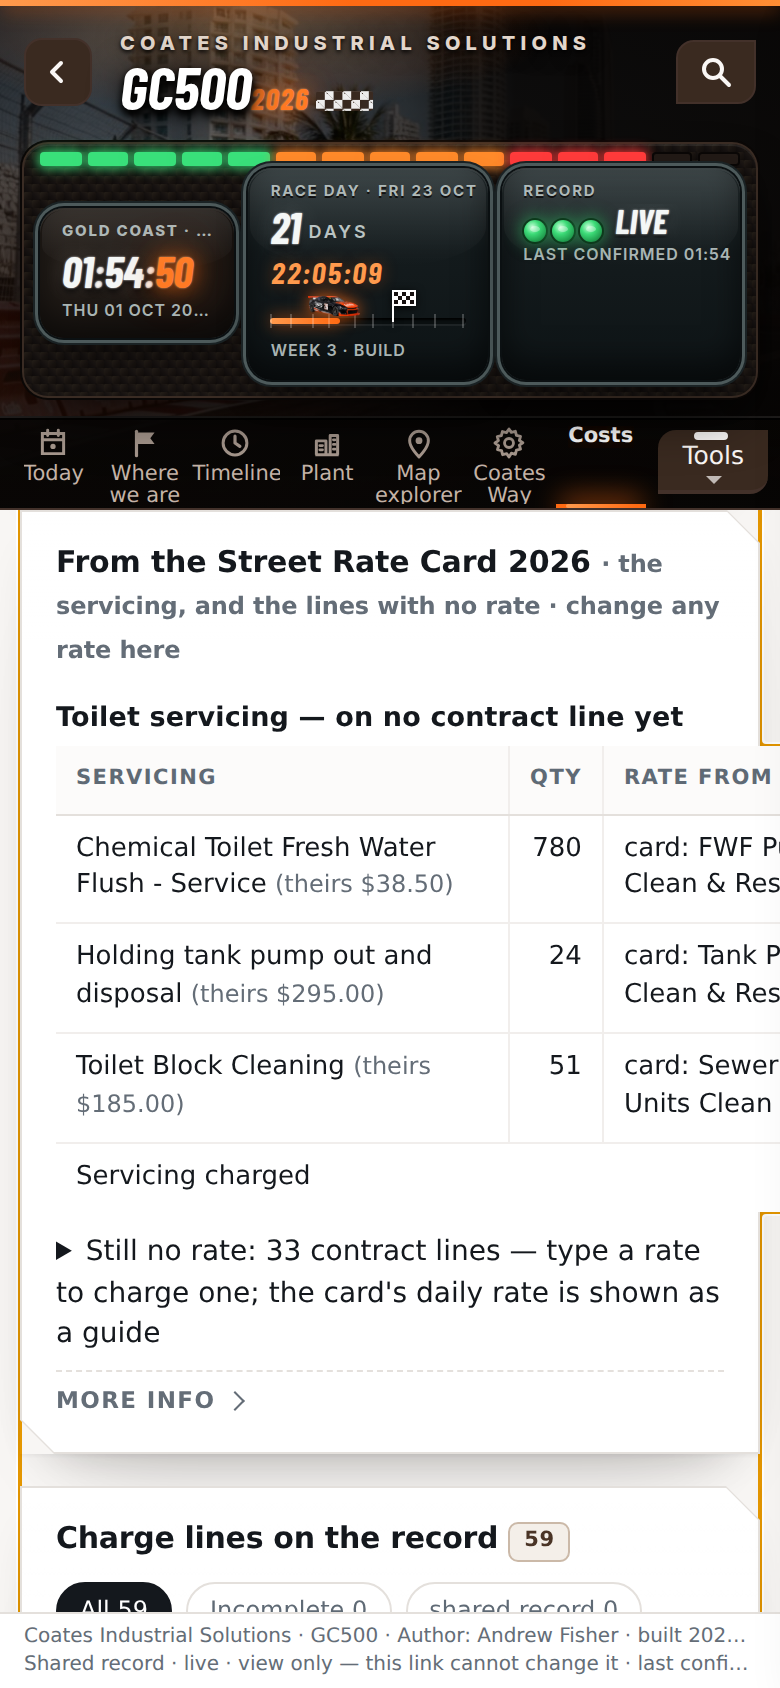
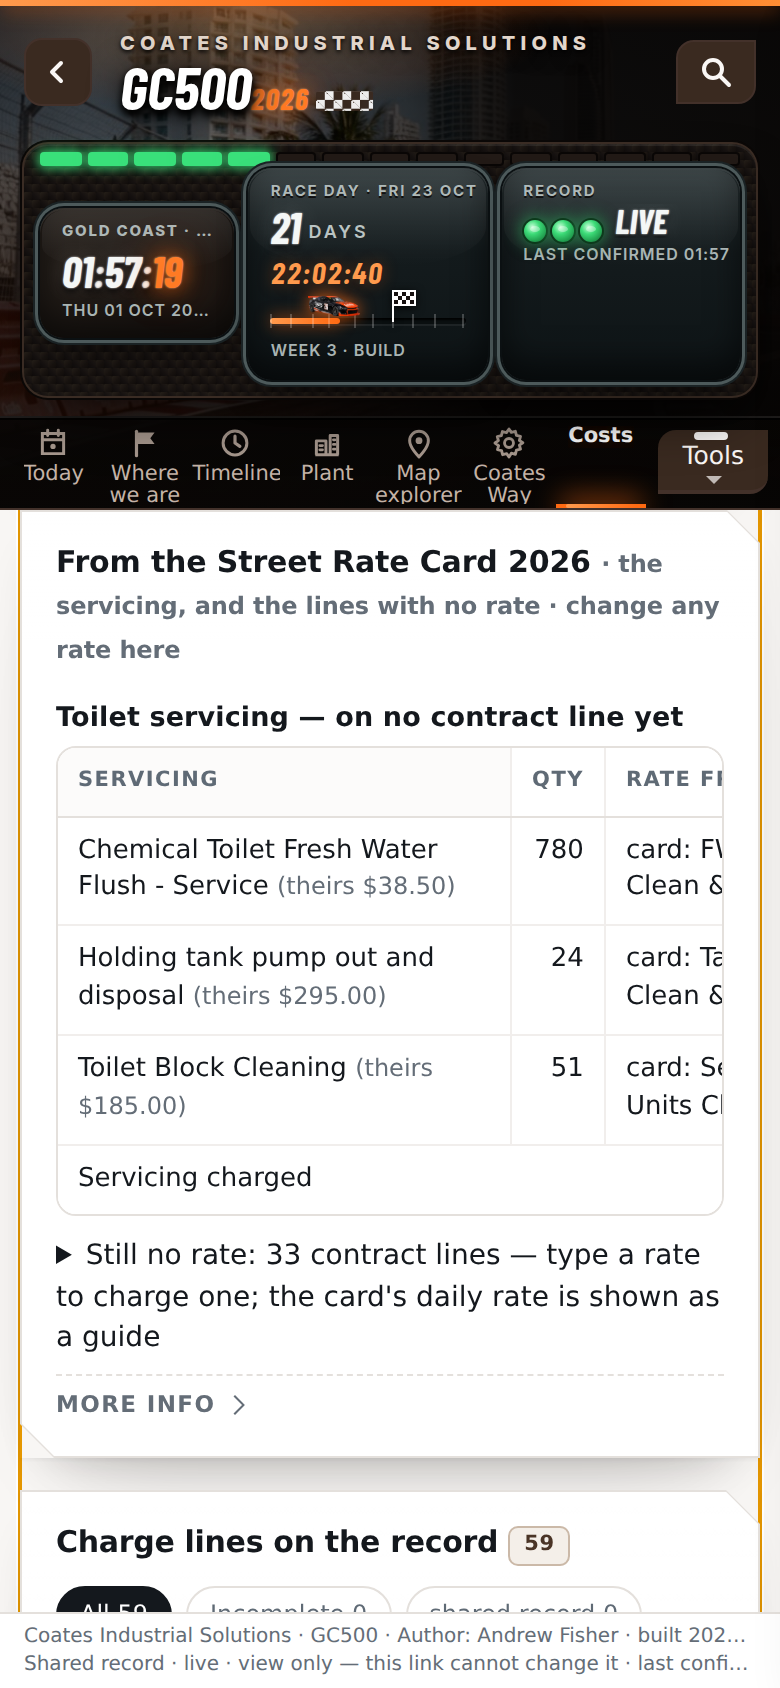
v7.49 draft: phone table scrolls in the page's own wrapper; both sweeps pass on the final build (21 tabs, 0 errors); not live
Claude-Session: https://claude.ai/code/session_01BQwk5iUoysfHRmoPUtnkBd

diff --git a/03_GC500_Delivery_Control/v7.49_card_fills_the_gaps_DRAFT/README.md b/03_GC500_Delivery_Control/v7.49_card_fills_the_gaps_DRAFT/README.md
@@ -46,8 +46,8 @@ rename both folders `_LIVE`, update `STATUS.md`.
 
 Checks: a rate typed on a decided tank line is ignored (stays "Included in toilet-block hire", $0); a typed generator
 rate counts and moves the revenue total on the page at once; clearing it returns the line to "no rate"; the typer's
-name is kept; 0 page errors desktop and phone; no sideways scroll on the phone. Sweeps: `sweep_desktop.txt`,
-`sweep_phone.txt`. Screenshots: `shot748_costs_desktop.png`, `shot748_costs_phone.png`.
+name is kept; 0 page errors desktop and phone; no sideways scroll on the phone. Sweeps on the final build (v7.48 + v7.49): desktop and phone, 21 tabs, 0 errors, 0 console errors
+(`sweep_desktop.txt`, `sweep_phone.txt`). Screenshots: `shot748_costs_desktop.png`, `shot748_costs_phone.png`.
 
 ## Also noticed (not changed)
 
